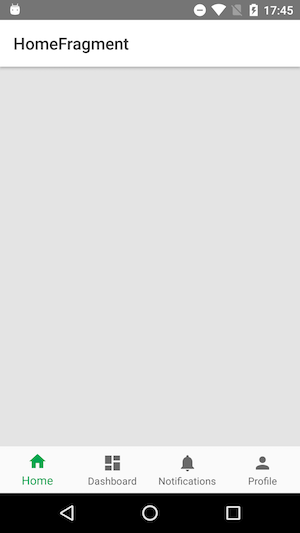
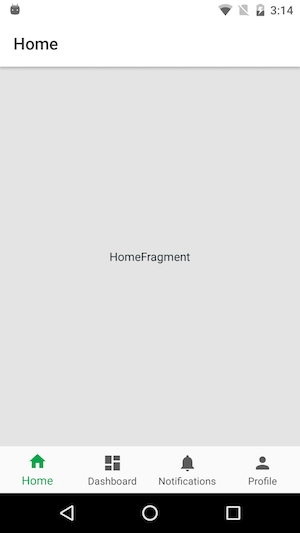
Modify style

Changed region(s): [[0.0, 0.0, 1.0, 0.1201], [0.36, 0.4503, 0.63, 0.5103]]

diff --git a/app/src/main/java/com/example/bottomnavigation/fragment/NotificationsFragment.kt b/app/src/main/java/com/example/bottomnavigation/fragment/NotificationsFragment.kt
@@ -11,12 +11,12 @@ import com.example.bottomnavigation.R
 class NotificationsFragment : Fragment() {
 
     companion object {
-        val TAG = NotificationsFragment::class.java.simpleName!!
+        val TAG: String = NotificationsFragment::class.java.simpleName
         fun newInstance() = NotificationsFragment()
     }
 
     override fun onCreateView(inflater: LayoutInflater?, container: ViewGroup?, savedInstanceState: Bundle?): View? {
-        activity.title = TAG
+        activity.title = getString(R.string.title_notifications)
         val view = inflater?.inflate(R.layout.fragment_notifications, container, false)
         return view
     }

diff --git a/app/src/main/java/com/example/bottomnavigation/fragment/DashboardFragment.kt b/app/src/main/java/com/example/bottomnavigation/fragment/DashboardFragment.kt
@@ -11,12 +11,12 @@ import com.example.bottomnavigation.R
 class DashboardFragment : Fragment() {
 
     companion object {
-        val TAG = DashboardFragment::class.java.simpleName!!
+        val TAG: String = DashboardFragment::class.java.simpleName
         fun newInstance() = DashboardFragment()
     }
 
     override fun onCreateView(inflater: LayoutInflater?, container: ViewGroup?, savedInstanceState: Bundle?): View? {
-        activity.title = TAG
+        activity.title = getString(R.string.title_dashboard)
         val view = inflater?.inflate(R.layout.fragment_dashboard, container, false)
         return view
     }

diff --git a/app/src/main/java/com/example/bottomnavigation/fragment/ProfileFragment.kt b/app/src/main/java/com/example/bottomnavigation/fragment/ProfileFragment.kt
@@ -11,12 +11,12 @@ import com.example.bottomnavigation.R
 class ProfileFragment : Fragment() {
 
     companion object {
-        val TAG = ProfileFragment::class.java.simpleName!!
+        val TAG: String = ProfileFragment::class.java.simpleName
         fun newInstance() = ProfileFragment()
     }
 
     override fun onCreateView(inflater: LayoutInflater?, container: ViewGroup?, savedInstanceState: Bundle?): View? {
-        activity.title = TAG
+        activity.title = getString(R.string.title_profile)
         val view = inflater?.inflate(R.layout.fragment_profile, container, false)
         return view
     }

diff --git a/app/src/main/java/com/example/bottomnavigation/fragment/HomeFragment.kt b/app/src/main/java/com/example/bottomnavigation/fragment/HomeFragment.kt
@@ -11,12 +11,12 @@ import com.example.bottomnavigation.R
 class HomeFragment : Fragment() {
 
     companion object {
-        val TAG = HomeFragment::class.java.simpleName!!
+        val TAG: String = HomeFragment::class.java.simpleName
         fun newInstance() = HomeFragment()
     }
 
     override fun onCreateView(inflater: LayoutInflater?, container: ViewGroup?, savedInstanceState: Bundle?): View? {
-        activity.title = TAG
+        activity.title = getString(R.string.title_home)
         val view = inflater?.inflate(R.layout.fragment_home, container, false)
         return view
     }
